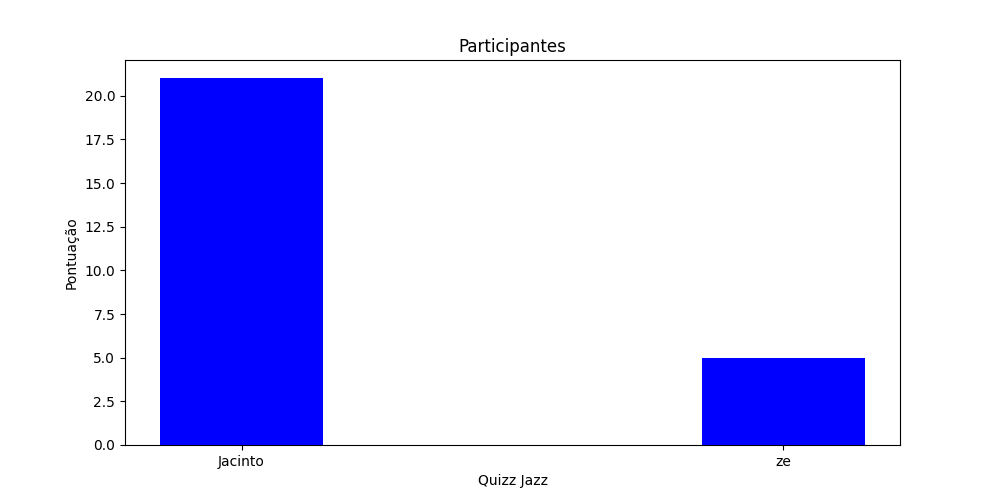
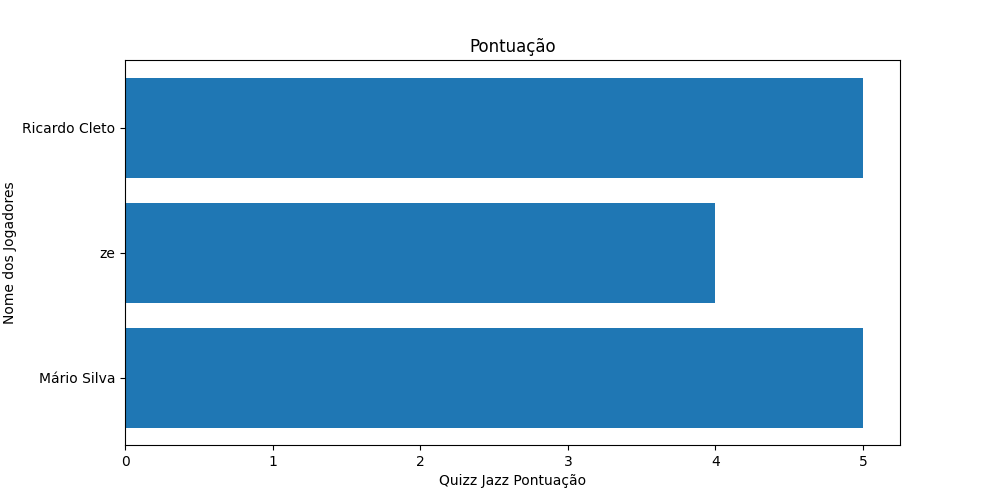
lab 9 admin

diff --git a/lab8/portfolio/static/portfolio/css/quizz.css b/lab8/portfolio/static/portfolio/css/quizz.css
@@ -1,45 +1,76 @@
-.container{
-  display: flex;
-    position: relative;
 
-    background-image: url('../images/pexels-pixabay-261579.jpg');
+
+.container{
+position: relative;
+  display: flex;
+align-content: center;
+        min-height: 1500px;
+
+    background-image: url('../images/1772247.jpg');
    flex-wrap: wrap;
 
-
-
-
-
-        min-height: 300px;
-
-
-      justify-content:center;
 
   /* Create the parallax scrolling effect */
   background-attachment: scroll;
   background-position: center;
   background-repeat: no-repeat;
   background-size: cover;
+
+
+
+
 }
 
 
-.btn{
-    margin-top: 20px;
-    background: #3f51b5;
+form{
+    margin-left: 50px;
 }
 
-.container div .graph{
-    margin-top: 500px;
+.contendor{
+   display: flex;
+   grid-template-columns: repeat(2, auto);
+   grid-template-rows: repeat(1, auto);
+   margin-top: 2px;
+   margin-left: 2px;
+   padding: 10px;
+   gap: 10px;
 }
 
-.graph{
-    margin-top: 500px;
-}
-
- .centrar2{display:block;text-align:center; padding-top: 30px}
-.container div img{
-    display: block;
-margin-left: auto;
-margin-right: auto;
-    height: 400px;
+.contendor div{
     width: 400px;
+    height: 300px;
+    box-shadow: 5px 2px 3px 7px black;
+    border-radius: 10px;
+    background-color: LightGray;
+
+    margin: 7px;
+
+}
+
+.submit{
+    margin-top: 20px;
+    background-image: url("../images/sax.png");
+    text-decoration: none;
+    border: 2px solid transparent;
+    font-weight: bold;
+    padding: 10px 25px;
+    border-radius: 30px;
+    transition: transform .5s;
+}
+
+.submit:hover{
+    transform: scale(1.1);
+}
+
+
+.contendor .post2{
+    height: 500px;
+    width: 1000px;
+
+}
+
+.contendor .post{
+    height: 520px;
+    width: 480px;
+    margin-left: 50%;
 }

diff --git a/lab8/portfolio/templates/portfolio/quizz.html b/lab8/portfolio/templates/portfolio/quizz.html
@@ -12,22 +12,29 @@
     <link rel="stylesheet" type="text/css" href="{% static 'portfolio/css/quizz.css' %}" >
 
 <div class="container">
-    <div class="centrar2">
 
-        <div class="graph">
-            {% load static %}
-            <img src="../../static/portfolio/images/grafico_final.png">
-        </div>
 
-        <div>
+    <div class="contendor">
+        <div class="post">
+
             <form action="" method="POST" enctype="multipart/form-data">
                 {% csrf_token %}
                 {{ form.as_p }}
-                <input type="submit" value="Submit" class="btn">
+                <input type="submit" value="Submeta o quizz!" class="submit">
             </form>
         </div>
 
     </div>
+
+    <div class="contendor">
+
+        <div class="post2">
+            {% load static %}
+            <img src="../../static/portfolio/images/grafico_final.png" alt="">
+        </div>
+
+    </div>
+
 </div>
 
 

diff --git a/lab8/portfolio/funcQuizz.py b/lab8/portfolio/funcQuizz.py
@@ -1,3 +1,5 @@
+from ctypes.wintypes import RGB
+
 from .models import Quizz
 import matplotlib.pyplot as plt
 
@@ -9,16 +11,16 @@ def QuizzPontuacao(input):
         user_score += 1
 
     if input.pergunta2 == "Jogador de basebol":
-        user_score += 5
+        user_score += 1
 
     if input.pergunta3 == "Livery Stable Blues":
-        user_score += 5
+        user_score += 1
 
     if input.pergunta4 == "Ella Fitzgerald":
-        user_score += 5
+        user_score += 1
 
     if input.pergunta5 == "Trompete":
-        user_score += 5
+        user_score += 1
 
     return user_score
 
@@ -31,20 +33,21 @@ def info_user(objetos):
     return dados
 
 
-def desenha_grafico_resultados(objetos):
+def draw_graph(objetos):
     # creating the dataset
     dados = info_user(objetos)
 
     user = list(dados.keys())
     pontuacao = list(dados.values())
 
-    figuraOutput = plt.figure(figsize=(10, 5))
+    color = RGB(255,185,15)
+
+    plt.figure(figsize=(10, 5))
 
     # creating the bar plot
-    plt.bar(user, pontuacao, color='blue',
-            width=0.3)
+    plt.barh(user, pontuacao)
 
-    plt.ylabel("Pontuação")
-    plt.xlabel("Quizz Jazz")
-    plt.title("Participantes")
+    plt.ylabel("Nome dos Jogadores")
+    plt.xlabel("Quizz Jazz Pontuação")
+    plt.title("Pontuação")
     plt.savefig('portfolio/static/portfolio/images/grafico_final.png')

diff --git a/lab8/portfolio/views.py b/lab8/portfolio/views.py
@@ -10,7 +10,7 @@ from portfolio.forms import PostForm
 from portfolio.models import Post, PontuacaoQuizz
 from .models import Quizz
 from .forms import QuizzForm
-from .funcQuizz import  desenha_grafico_resultados
+from .funcQuizz import  draw_graph
 from .forms import Projetos
 from .models import Projetos
 
@@ -97,7 +97,7 @@ def apaga_post_view(request, blog_post_id):
 
 def quizz_view(request):
 
-    desenha_grafico_resultados(Quizz.objects.all())
+    draw_graph(Quizz.objects.all())
 
     form = QuizzForm(request.POST, use_required_attribute=False)
 
